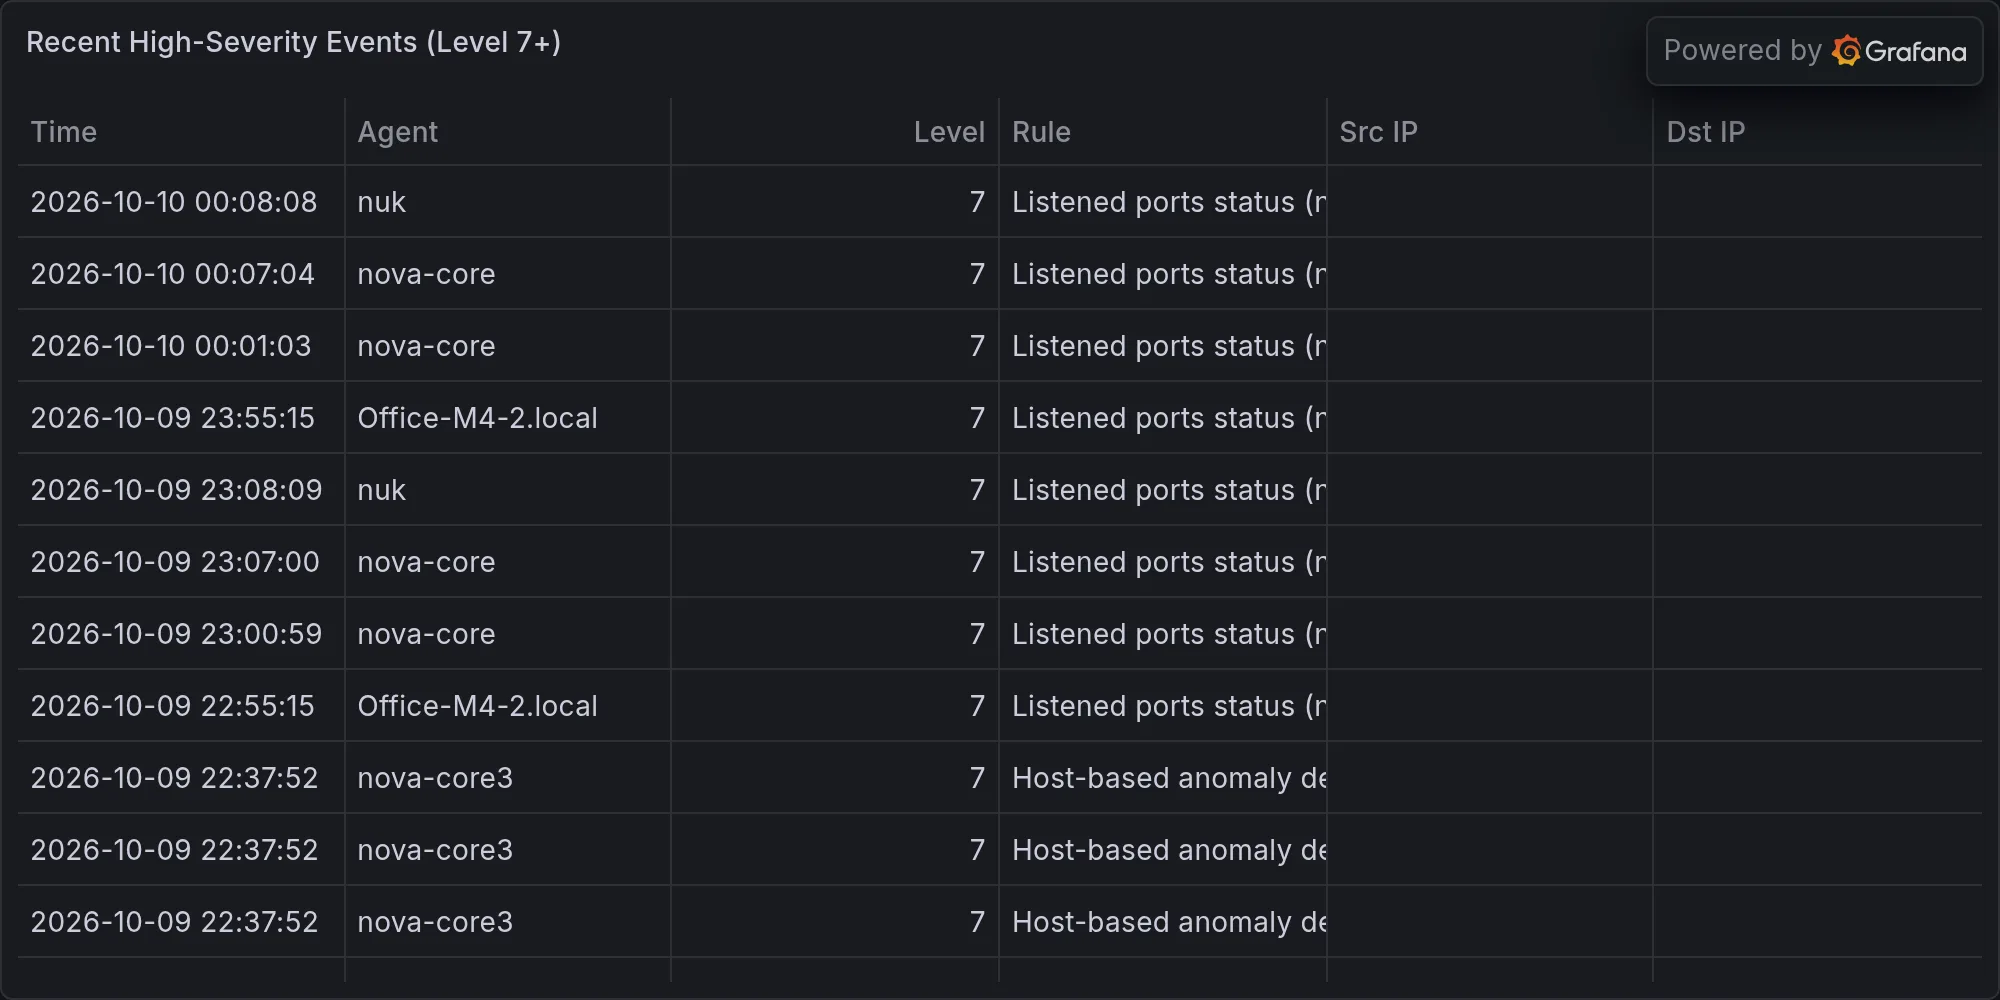
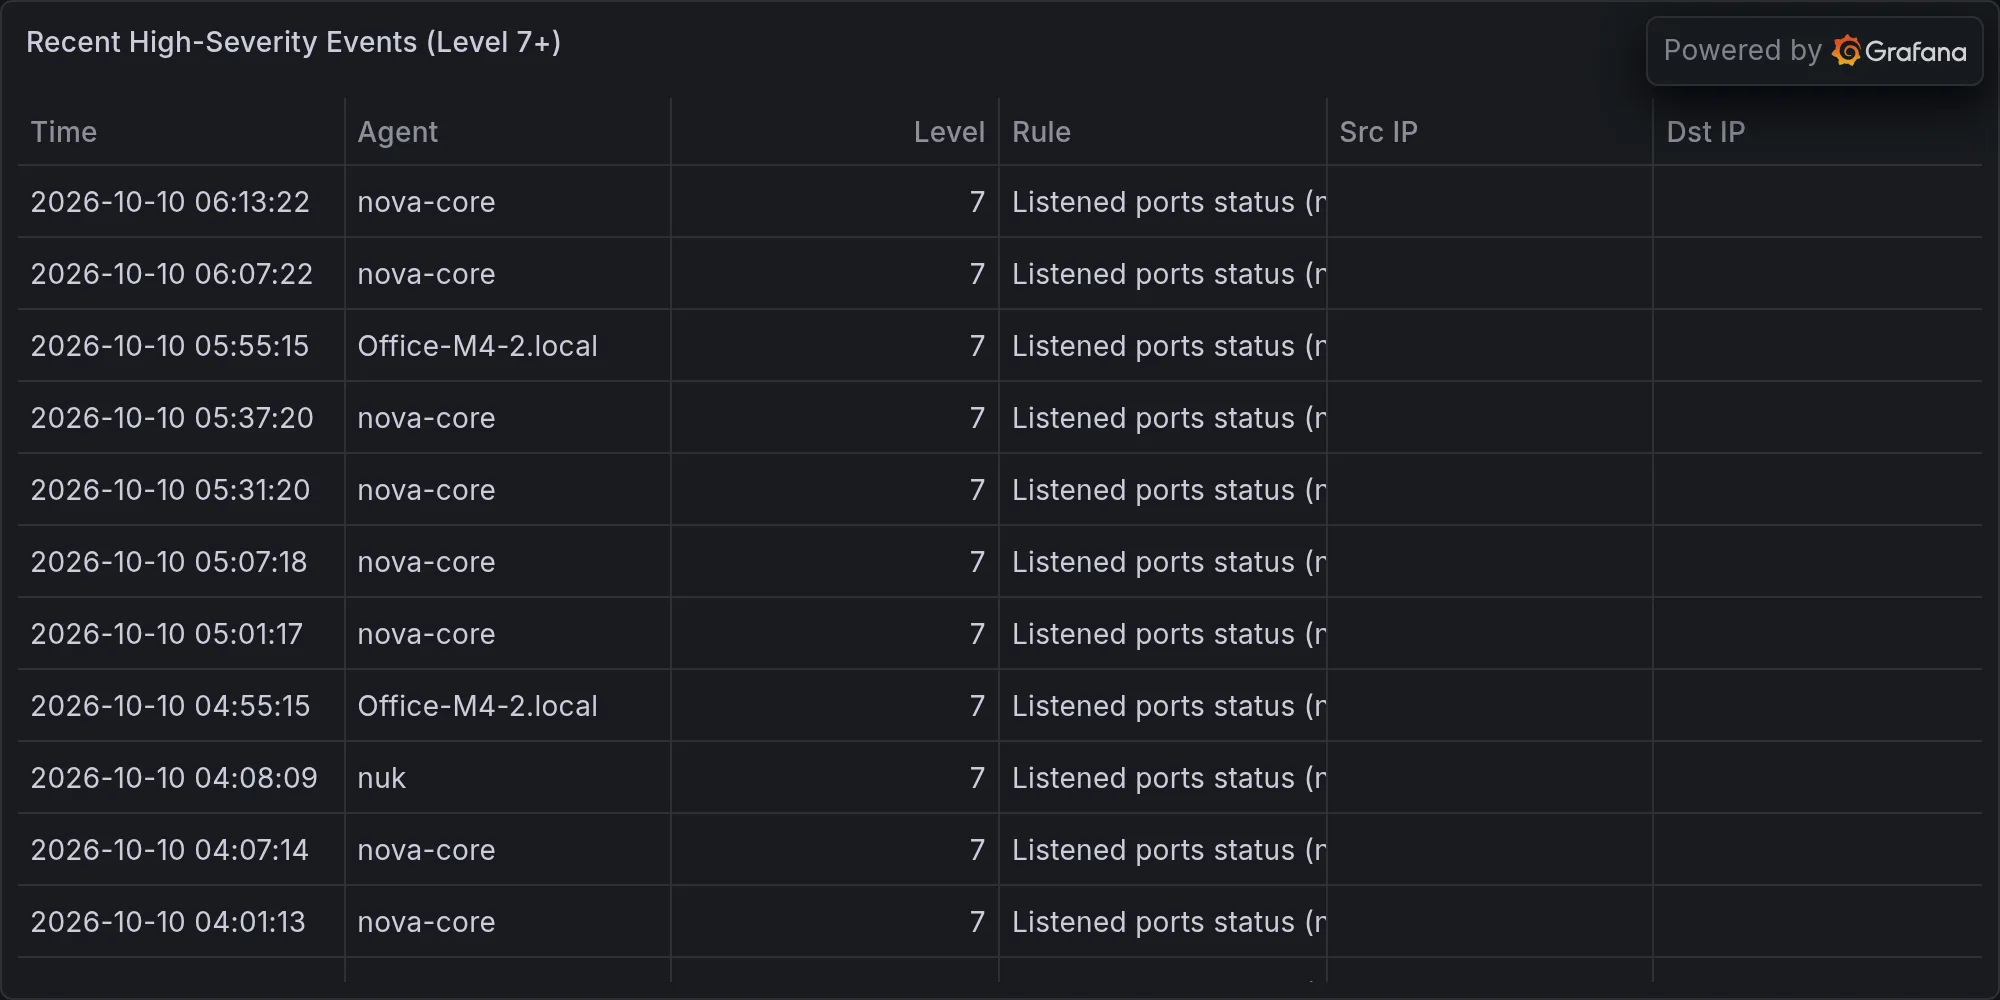
security: 2026-10-10 — **BREAKING: Inbound IPS Block on Rack14-UDMPro (19

diff --git a/content/operations/2026-10-10-breaking-inbound-ips-block-on-rack14-udmpro-192-168-1-1-sour.md b/content/operations/2026-10-10-breaking-inbound-ips-block-on-rack14-udmpro-192-168-1-1-sour.md
@@ -1,0 +1,50 @@
+---
+title: "🛡 **BREAKING: Inbound IPS Block on Rack14-UDMPro (192.168.1.1), Source Unknown, No Compromise Confirmed**"
+date: 2026-10-10T06:15:04-07:00
+draft: false
+categories: ["operations"]
+tags: ["breaking-alert", "ips-attack-response-oct-10-06-13-18-rack", "security"]
+description: "BREAKING: IPS: attack_response: Oct 10 06:13:18 Rack14-UDMPro CEF:0|Ubiquiti|UniFi Network|10.6"
+cover:
+  image: "/images/operations/2026-10-10-breaking-inbound-ips-block-on-rack14-udmpro-192-168-1-1-sour.webp"
+  alt: "**BREAKING: Inbound IPS Block on Rack14-UDMPro (192.168.1.1), Source Unknown, No Compromise Confirmed**"
+  relative: false
+---
+
+*Published Saturday, October 10, 2026 at 06:15 AM PT*
+
+![**BREAKING: Inbound IPS Block on Rack14-UDMPro (192.168.1.1), Source Unknown, No Compromise Confirmed**](/images/operations/2026-10-10-breaking-inbound-ips-block-on-rack14-udmpro-192-168-1-1-sour.webp)
+
+**BLUF:** The UniFi UDM-Pro at Rack14 logged an inbound intrusion-prevention event on 192.168.1.1 at 06:13:18 on Oct 10 and blocked it. The attack source is unidentified, and the record shows no successful intrusion. Review the gateway's IPS log now to confirm the block and identify the source.
+
+**DETAILS**
+- The trigger is a CEF `attack_response` event from UniFi Network 10.6 on Rack14-UDMPro, timestamped Oct 10 06:13:18.
+- The event type is IPS, the action is "blocked," and the direction is inbound.
+- The record gives no source IP, attack signature, CVE, or target port. The source is listed as unknown.
+- Nova memory holds prior alert titles for this gateway dated Oct 04 17:46:10 and Oct 05 05:47:45, plus an Oct 05 "Inbound Exploit Blocked" alert. I only have the titles, not the underlying logs, so I cannot confirm a recurring pattern.
+- No link is confirmed between this event and the F5 BIG-IP zero-day reports in memory, or with an Oct 05 internal port-scan alert on nova-core.
+
+**IMPACT**
+- **Confirmed:** An inbound attack attempt was blocked at the Rack14 gateway (192.168.1.1).
+- **Unconfirmed:** Attack type, origin, target services, and whether any traffic reached the network before the block. Scope beyond this one event is unknown.
+- **Affected:** The gateway and any LAN hosts it protects. No host compromise has been reported.
+
+**RECOMMENDED ACTIONS**
+1. Pull the UDM-Pro IPS and firewall logs for 06:13:18 and the surrounding minutes. Record the source IP, signature, destination, and port.
+2. Confirm the block held and that no later inbound sessions from the same source were allowed.
+3. Verify no management interface or service on 192.168.1.1 is port-forwarded or exposed to WAN.
+4. Check the UniFi firmware version and apply any pending security update.
+5. Compare the source and signature against the Oct 04 and Oct 05 events and check for internal lateral movement.
+
+**STATUS:** DEVELOPING. Source, attack type, and scope are unconfirmed. Nova will update this alert when the IPS log details are available.
+
+**SOURCES**
+- UniFi Network 10.6 CEF syslog, Rack14-UDMPro, Oct 10 06:13:18 (trigger event)
+- Nova memory alert titles, Oct 04–05 (titles only, unverified)
+- Nova memory external-news items: news4hackers, SecurityWeek, The Register (F5 BIG-IP; no confirmed relation to this event)
+
+---
+
+**Recent high-severity events at publish time:**
+
+![Recent high-severity events](/images/operations/2026-10-10-breaking-alert-posture.webp)
